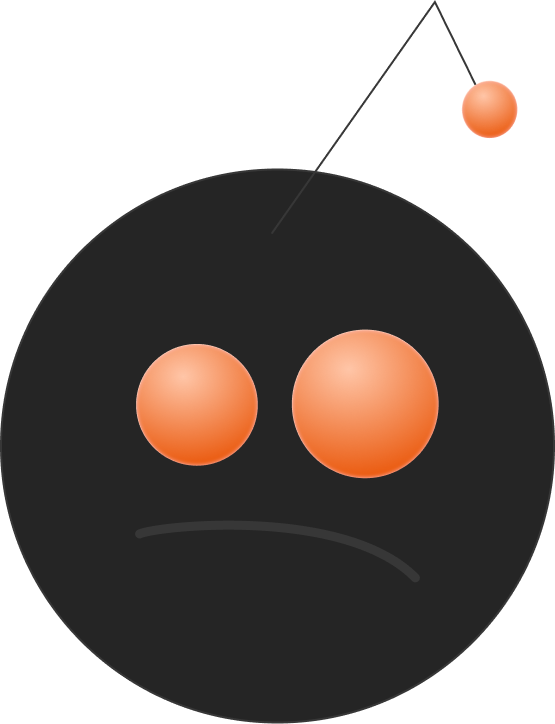
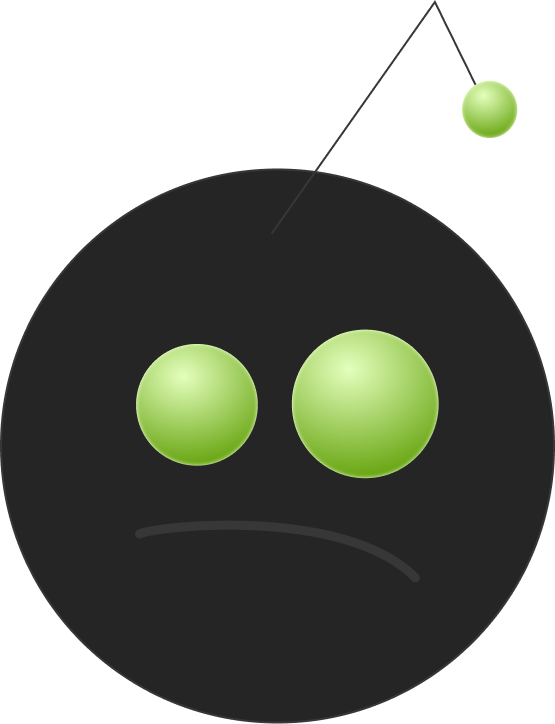
change theme

Changed region(s): [[0.5207, 0.4558, 0.7964, 0.6685], [0.245, 0.4558, 0.4901, 0.6685], [0.827, 0.0912, 0.9495, 0.2127]]

diff --git a/tailwind.config.js b/tailwind.config.js
@@ -9,7 +9,7 @@ module.exports = {
   theme: {
     extend: {
       colors: {
-        primary: colors.orange["500"],
+        primary: colors.lime["600"],
         content: colors.zinc["500"],
         contentBg: "#181818",
         darkContent: "#151515",
